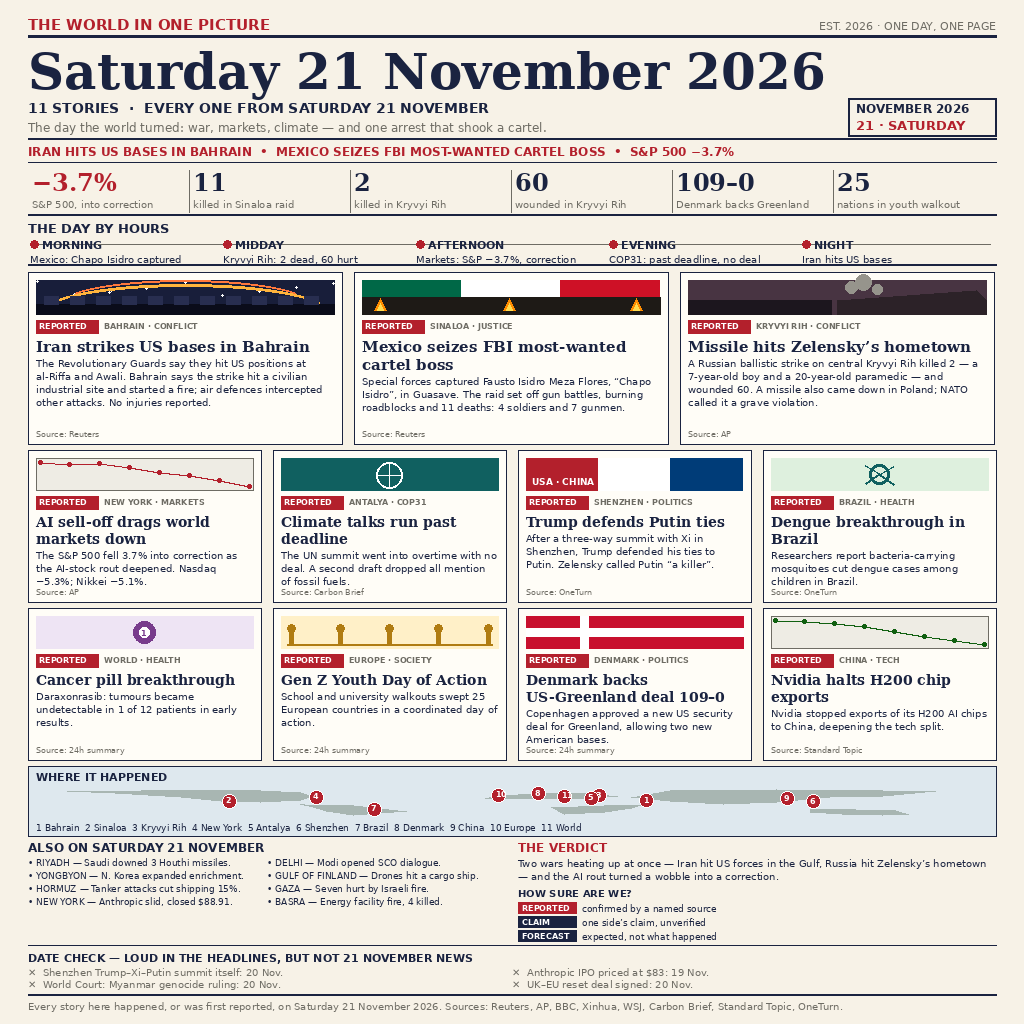
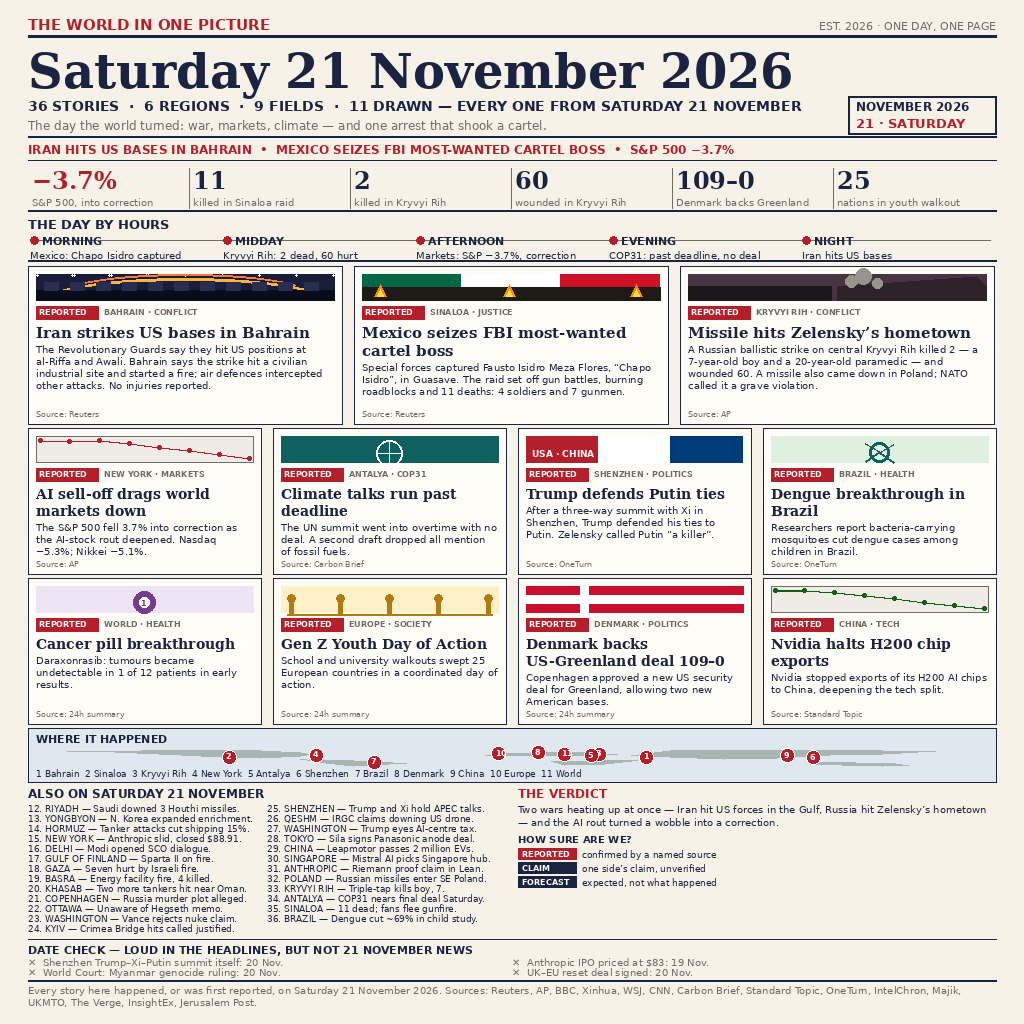
news-image-20261121 v2: 36 stories ala juara 18 Nov (25 ALSO ON, region/field breakdown)

diff --git a/build-image.py b/build-image.py
@@ -90,14 +90,14 @@ d.text((W - M - d.textlength("EST. 2026 · ONE DAY, ONE PAGE", font=F_SANS(11)),
 y += 20
 hline(d, M, W - M, y, INK, 3)
 y += 6
-d.text((M, y), "Saturday 21 November 2026", font=F_SERIF_B(50), fill=INK)
-y += 56
+d.text((M, y), "Saturday 21 November 2026", font=F_SERIF_B(48), fill=INK)
+y += 54
 box_w, box_h = 148, 38
 bx, by = W - M - box_w, y
 d.rectangle([bx, by, bx + box_w, by + box_h], outline=INK, width=2)
 d.text((bx + 8, by + 3), "NOVEMBER 2026", font=F_SANS_B(12), fill=INK)
 d.text((bx + 8, by + 19), "21 · SATURDAY", font=F_SANS_B(13), fill=RED)
-d.text((M, y + 2), "11 STORIES  ·  EVERY ONE FROM SATURDAY 21 NOVEMBER", font=F_SANS_B(14), fill=INK)
+d.text((M, y + 2), "36 STORIES  ·  6 REGIONS  ·  9 FIELDS  ·  11 DRAWN — EVERY ONE FROM SATURDAY 21 NOVEMBER", font=F_SANS_B(14), fill=INK)
 d.text((M, y + 22), "The day the world turned: war, markets, climate — and one arrest that shook a cartel.",
        font=F_SANS(12), fill=GREY)
 y += 40
@@ -124,8 +124,8 @@ for i, (num, lab) in enumerate(stats):
     d.text((x + 4, y), num, font=F_SERIF_B(24), fill=RED if i == 0 else INK)
     d.text((x + 4, y + 30), lab, font=F_SANS(10), fill=GREY)
     if i:
-        d.line([(x, y + 2), (x, y + 44)], fill=GREY, width=1)
-y += 46
+        d.line([(x, y + 2), (x, y + 42)], fill=GREY, width=1)
+y += 44
 hline(d, M, W - M, y, INK, 2)
 y += 6
 
@@ -149,7 +149,7 @@ for i, (hh, lab) in enumerate(hours):
     d.text((x + 2, ty + 15), lab, font=F_SANS(10), fill=INK)
 y = ty + 26
 hline(d, M, W - M, y, INK, 2)
-y += 8
+y += 6
 
 # ================= STORY CARDS =================
 def card(draw, x, y, w, h, kicker, title, body, source, art, tag="REPORTED",
@@ -163,7 +163,7 @@ def card(draw, x, y, w, h, kicker, title, body, source, art, tag="REPORTED",
     draw.text((x + 76, cy + 1), kicker, font=F_SANS_B(8), fill=GREY)
     cy += 17
     cy = para(draw, (x + 8, cy), title, F_SERIF_B(title_size), INK, w - 16, leading=title_size + 3)
-    cy = para(draw, (x + 8, cy + 2), body, F_SANS(body_size), INK, w - 16, leading=13)
+    cy = para(draw, (x + 8, cy + 2), body, F_SANS(body_size), INK, w - 16, leading=12)
     draw.text((x + 8, y + h - 15), "Source: " + source, font=F_SANS(8), fill=GREY)
     return y + h
 
@@ -247,10 +247,10 @@ big = [
      "AP", art_kryvyi),
 ]
 bw = (CW - 2 * 12) // 3
-bh = 172
+bh = 158
 for i, (kick, title, body, src, art) in enumerate(big):
-    card(d, M + i * (bw + 12), y, bw, bh, kick, title, body, src, art)
-y += bh + 6
+    card(d, M + i * (bw + 12), y, bw, bh, kick, title, body, src, art, art_h=26)
+y += bh + 4
 
 # --- second row: 4 small cards ---
 small1 = [
@@ -268,10 +268,10 @@ small1 = [
      "OneTurn", art_dengue),
 ]
 sw2 = (CW - 3 * 12) // 4
-sh = 152
+sh = 146
 for i, (kick, title, body, src, art) in enumerate(small1):
-    card(d, M + i * (sw2 + 12), y, sw2, sh, kick, title, body, src, art, title_size=14, art_h=32)
-y += sh + 6
+    card(d, M + i * (sw2 + 12), y, sw2, sh, kick, title, body, src, art, title_size=14, art_h=26)
+y += sh + 4
 
 # --- third row: 4 small cards ---
 small2 = [
@@ -289,11 +289,11 @@ small2 = [
      "Standard Topic", art_nvidia),
 ]
 for i, (kick, title, body, src, art) in enumerate(small2):
-    card(d, M + i * (sw2 + 12), y, sw2, sh, kick, title, body, src, art, title_size=14, art_h=32)
-y += sh + 6
+    card(d, M + i * (sw2 + 12), y, sw2, sh, kick, title, body, src, art, title_size=14, art_h=26)
+y += sh + 4
 
 # ================= WHERE IT HAPPENED =================
-map_h = 70
+map_h = 54
 d.rectangle([M, y, W - M, y + map_h], fill=(222, 232, 238), outline=INK, width=1)
 d.text((M + 8, y + 4), "WHERE IT HAPPENED", font=F_SANS_B(11), fill=INK)
 def lonlat(lon, lat):
@@ -329,22 +329,40 @@ ax = M
 d.text((ax, y), "ALSO ON SATURDAY 21 NOVEMBER", font=F_SANS_B(12), fill=INK)
 ay = y + 17
 also = [
-    ("RIYADH", "Saudi downed 3 Houthi missiles."),
-    ("YONGBYON", "N. Korea expanded enrichment."),
-    ("HORMUZ", "Tanker attacks cut shipping 15%."),
-    ("NEW YORK", "Anthropic slid, closed $88.91."),
-    ("DELHI", "Modi opened SCO dialogue."),
-    ("GULF OF FINLAND", "Drones hit a cargo ship."),
-    ("GAZA", "Seven hurt by Israeli fire."),
-    ("BASRA", "Energy facility fire, 4 killed."),
+    (12, "RIYADH", "Saudi downed 3 Houthi missiles."),
+    (13, "YONGBYON", "N. Korea expanded enrichment."),
+    (14, "HORMUZ", "Tanker attacks cut shipping 15%."),
+    (15, "NEW YORK", "Anthropic slid, closed $88.91."),
+    (16, "DELHI", "Modi opened SCO dialogue."),
+    (17, "GULF OF FINLAND", "Sparta II on fire."),
+    (18, "GAZA", "Seven hurt by Israeli fire."),
+    (19, "BASRA", "Energy facility fire, 4 killed."),
+    (20, "KHASAB", "Two more tankers hit near Oman."),
+    (21, "COPENHAGEN", "Russia murder plot alleged."),
+    (22, "OTTAWA", "Unaware of Hegseth memo."),
+    (23, "WASHINGTON", "Vance rejects nuke claim."),
+    (24, "KYIV", "Crimea Bridge hits called justified."),
+    (25, "SHENZHEN", "Trump and Xi hold APEC talks."),
+    (26, "QESHM", "IRGC claims downing US drone."),
+    (27, "WASHINGTON", "Trump eyes AI-centre tax."),
+    (28, "TOKYO", "Sila signs Panasonic anode deal."),
+    (29, "CHINA", "Leapmotor passes 2 million EVs."),
+    (30, "SINGAPORE", "Mistral AI picks Singapore hub."),
+    (31, "ANTHROPIC", "Riemann proof claim in Lean."),
+    (32, "POLAND", "Russian missiles enter SE Poland."),
+    (33, "KRYVYI RIH", "Triple-tap kills boy, 7."),
+    (34, "ANTALYA", "COP31 nears final deal Saturday."),
+    (35, "SINALOA", "11 dead; fans flee gunfire."),
+    (36, "BRAZIL", "Dengue cut ~69% in child study."),
 ]
-# two columns of 4
+# two columns: 13 left, 12 right; one line per item, numbered on from the 11 cards
+n_left = 13
 for col in range(2):
     cx = ax + col * (col_w // 2)
-    for row in range(4):
-        city, line = also[col * 4 + row]
-        para(d, (cx, ay + row * 13), "• " + city + " — " + line, F_SANS(9), INK, col_w // 2 - 8, leading=11)
-ay += 4 * 13 + 4
+    items = also[:n_left] if col == 0 else also[n_left:]
+    for row, (num, city, line) in enumerate(items):
+        d.text((cx, ay + row * 10), "%d. %s — %s" % (num, city, line), font=F_SANS(9), fill=INK)
+ay += 13 * 10 + 4
 vx = M + col_w + 12
 d.text((vx, y), "THE VERDICT", font=F_SANS_B(12), fill=RED)
 vy = para(d, (vx, y + 17),
@@ -362,11 +380,11 @@ for lab, desc in [("REPORTED", "confirmed by a named source"),
     vy += 14
 y = max(ay, vy) + 2
 hline(d, M, W - M, y, INK, 1)
-y += 6
+y += 4
 
 # ================= DATE CHECK =================
 d.text((M, y), "DATE CHECK — LOUD IN THE HEADLINES, BUT NOT 21 NOVEMBER NEWS", font=F_SANS_B(11), fill=INK)
-y += 15
+y += 13
 dc = [
     "✕  Shenzhen Trump–Xi–Putin summit itself: 20 Nov.",
     "✕  World Court: Myanmar genocide ruling: 20 Nov.",
@@ -375,15 +393,15 @@ dc = [
 ]
 for col in range(2):
     for row in range(2):
-        d.text((M + col * (CW // 2), y + row * 12), dc[col * 2 + row], font=F_SANS(10), fill=GREY)
-y += 2 * 12 + 4
+        d.text((M + col * (CW // 2), y + row * 10), dc[col * 2 + row], font=F_SANS(10), fill=GREY)
+y += 2 * 10 + 4
 hline(d, M, W - M, y, INK, 2)
-y += 6
+y += 4
 
 # ================= FOOTER =================
-d.text((M, y),
-       "Every story here happened, or was first reported, on Saturday 21 November 2026. Sources: Reuters, AP, BBC, Xinhua, WSJ, Carbon Brief, Standard Topic, OneTurn.",
-       font=F_SANS(10), fill=GREY)
+y = para(d, (M, y),
+         "Every story here happened, or was first reported, on Saturday 21 November 2026. Sources: Reuters, AP, BBC, Xinhua, WSJ, CNN, Carbon Brief, Standard Topic, OneTurn, IntelChron, Majik, UKMTO, The Verge, InsightEx, Jerusalem Post.",
+         F_SANS(10), GREY, CW, leading=12)
 
 print("final y =", y, "canvas H =", H)
 assert y <= H - 14, "layout overflow: final y %d > %d" % (y, H - 14)
